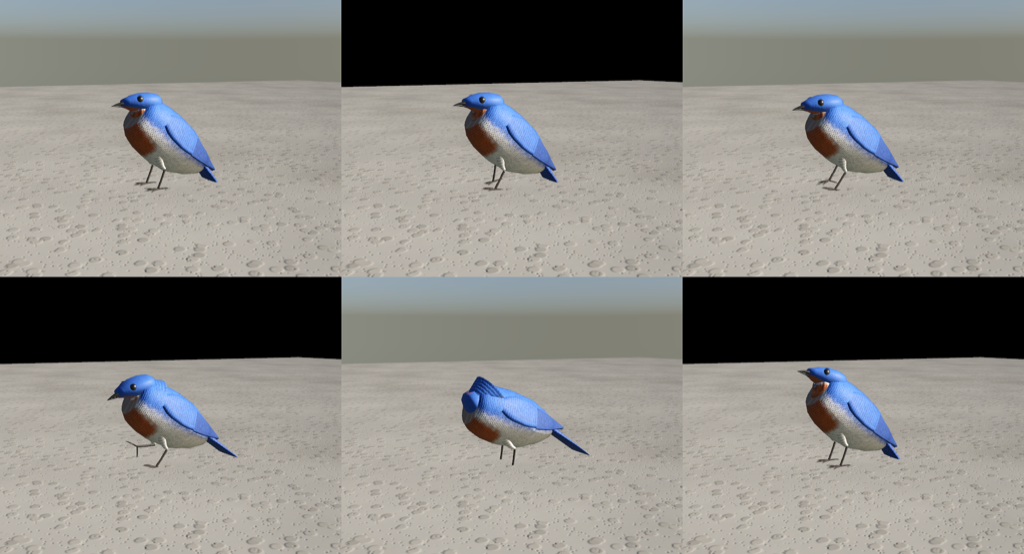
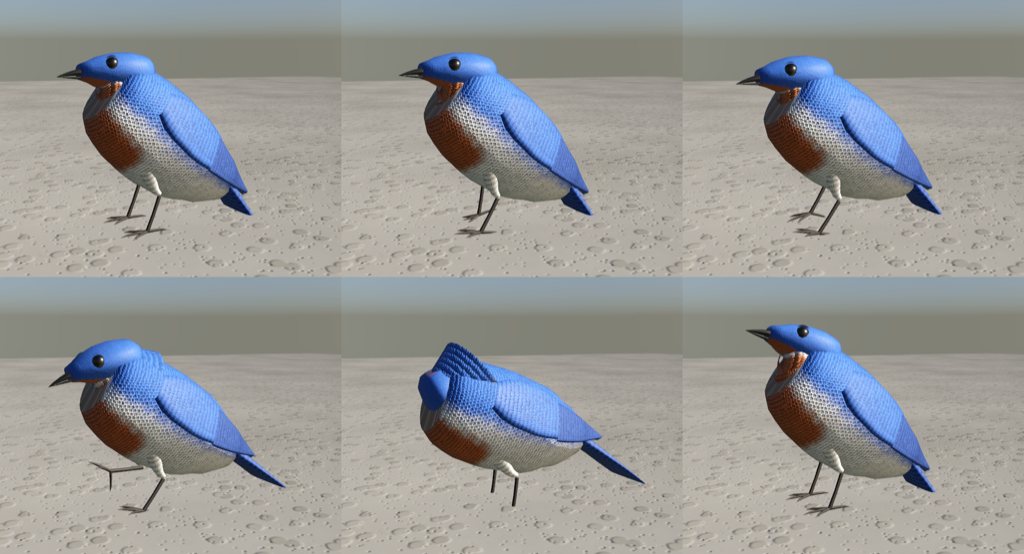
Pets: shell fur (furShell, Skin.withShells), shell tail, iris/cornea eyes, ear hair, close sheets, 51k tri budget

diff --git a/Sources/AnimalCore/Anatomy/GroundRigBuilder.swift b/Sources/AnimalCore/Anatomy/GroundRigBuilder.swift
@@ -229,7 +229,7 @@ public enum GroundRigBuilder {
         // Neck and head.
         let hc = f.headCenter, hl = a.headLength
         let neckEnd = hc + V3(0, -0.1 * a.headHeight, 0.3 * hl)
-        let limbFur = a.darkLimbs ? f.mat(.head) : fur
+        let limbFur = a.darkLimbs ? f.mat(.head) : (small ? f.mat(.limb) : fur)
         // Neck: sections along the spine of the neck with a shoulder blend at the base, a crest above and
         // a brisket or throat swell below.
         let nBase = small ? f.C + f.A * (0.36 * a.bodyLength) + f.U * (0.02 * a.bodyDepth) : f.neckPivot - f.A * (0.1 * a.bodyLength) - f.U * (0.06 * a.bodyDepth)
@@ -333,7 +333,7 @@ public enum GroundRigBuilder {
             if small {
                 // Seat the eye in a socket: sunk into the skull, flattened, ringed by a dark lid rim.
                 let R = a.eyeRadius
-                c -= V3(s.sign * R * 0.55, 0, 0)
+                c -= V3(s.sign * R * 0.6, 0, 0)
                 let face = simd_quatf(angle: -s.sign * .pi / 2, axis: GroundFrame.Z)
                 var rim: [V2] = []
                 for k in 0...6 { let al = radians(58 + 40 * Float(k) / 6); rim.append(V2(R * 1.12 * sin(al), R * 1.12 * cos(al) * 0.92)) }
@@ -358,6 +358,13 @@ public enum GroundRigBuilder {
             let part = s == .left ? GroundJoint.earL.name : GroundJoint.earR.name
             for srf in QuadrupedBody.ear(base: base - dir * 0.004, dir: dir, side: side, normal: normal, len: a.earLength, width: a.earWidth,
                                          outer: f.mat(.ear), inner: f.mat(.pinna)) { rig.add(srf, to: part) }
+            // Fine pale hair fringing the inner ear.
+            for k in 0..<9 {
+                let sb = 0.06 + 0.07 * Float(k), sa = (Float(k % 3) - 1) * 0.35
+                let p0 = base + dir * (a.earLength * sb) + side * (a.earWidth * 0.32 * sa) + normal * 0.0015
+                let L = a.earLength * 0.22
+                rig.add(Prim.tube([p0, p0 + dir * (0.5 * L) + normal * (0.25 * L), p0 + dir * L + normal * (0.35 * L)], radii: [0.0007, 0.0005, 0.0001], sides: 3, seamTile: 0.02, material: f.mat(.whisker)), to: part)
+            }
         }
         for s in Side.allCases where plan == nil && !small {
             let base = earBase(s)
@@ -404,14 +411,14 @@ public enum GroundRigBuilder {
                 }
             }
             let fluffy = small && a.tailLength > 0.6 * a.bodyLength
-            let coreK: Float = fluffy ? 0.5 : 1
+            let coreK: Float = fluffy ? 0.62 : 1
             let pm = lerp(p0, p1, 0.5) + V3(0, curl * tailSeg * 0.07, 0)
             let seg = Loft.along([p0 - (p1 - p0) * 0.1, pm, p1 + (p1 - p0) * 0.06], up: GroundFrame.Y, count: 5, segments: 14, vRange: t0...t1, exponent: 2, material: tailMaterial()) { t in
                 let r = wTail(lerp(t0, t1, t)) * coreK; return V3(r, r * (p.species == .easternGraySquirrel ? 0.8 : 1), r * (p.species == .easternGraySquirrel ? 0.8 : 1))
             }
             let partName = [GroundJoint.tail0, .tail1, .tail2][i].name
             rig.add(seg, to: partName)
-            if fluffy {
+            if fluffy && !small {
                 // Volumetric brush: tapered fur cards fanning out from the tail bone, leaning toward the tip.
                 var rng = SplitMix(seed: 31 + UInt64(i))
                 let ax = simd_normalize(p1 - p0)
@@ -466,7 +473,7 @@ public enum GroundRigBuilder {
                     let r = lerp(radii[0], radii[1], k) * (small ? 1 + 0.12 * sin(.pi * t) : 1); return small ? V3(r * 0.9, r * 1.08, r * 1.08) : V3(r, r, r)
                 }, uv: { u, v in V2(legU + 0.05 * cos(u * 2 * .pi), 0.3 + 0.3 * v) })
             }
-            rig.add(Loft.along([c.hip + (small ? f.U * ((l.isFore ? 0.3 : 0.12) * a.bodyDepth) - V3(c.hip.x * 0.55, 0, 0) : V3(0, 0.004, 0)), c.knee], up: GroundFrame.X, count: small ? 8 : 6, segments: small ? 16 : 12, vRange: 0...0.5, exponent: 2, material: fur, radius: { t in let k = small ? 1 - pow(1 - t, 2) : t; let r = lerp(thighR * (small ? 1.15 : 1), kneeR, k); return V3(r, r, r) }, uv: { u, v in V2(legU + 0.05 * cos(u * 2 * .pi), 0.3 + 0.3 * v) }), to: GroundJoint.leg(l, .hip).name)
+            rig.add(Loft.along([c.hip + (small ? f.U * ((l.isFore ? 0.3 : 0.12) * a.bodyDepth) - V3(c.hip.x * 0.55, 0, 0) : V3(0, 0.004, 0)), c.knee], up: GroundFrame.X, count: small ? 8 : 6, segments: small ? 16 : 12, vRange: 0...0.5, exponent: 2, material: small ? limbFur : fur, radius: { t in let k = small ? 1 - pow(1 - t, 2) : t; let r = lerp(thighR * (small ? 1.15 : 1), kneeR, k); return V3(r, r, r) }, uv: { u, v in V2(legU + 0.05 * cos(u * 2 * .pi), 0.3 + 0.3 * v) }), to: GroundJoint.leg(l, .hip).name)
             rig.add(leg([c.knee, c.ankle], [kneeR, shankEnd], vr: 0.5...1), to: GroundJoint.leg(l, .knee).name)
             rig.add(leg([c.ankle, c.toe], [r * 0.85, r * 0.9], vr: 0.5...1), to: GroundJoint.leg(l, .ankle).name)
             let ankle = GroundJoint.leg(l, .ankle).name

diff --git a/Sources/AnimalCore/Materials/FaunaMaterials.swift b/Sources/AnimalCore/Materials/FaunaMaterials.swift
@@ -33,7 +33,7 @@ public enum FaunaMaterials {
             make(.body, .plumageBody) {
                 $0.colorA = linear(c.back); $0.colorB = linear(c.belly); $0.colorC = linear(c.breast)
                 $0.knobs = V4(c.featherRows * 1.9, c.flankLine, c.breastExtent, c.spotting)
-                $0.tileSize = 0; $0.resolution = 1024; $0.normalStrength = 0.7; $0.roughness = 0.62
+                $0.tileSize = 0; $0.resolution = 1024; $0.normalStrength = 1.3; $0.roughness = 0.66
                 if c.iridescence > 0 { $0.roughness = 0.55; $0.specular = 0.5 }   // structural blue: soft sheen, not lacquer
             },
             p.anatomy.caruncle > 0
@@ -132,7 +132,7 @@ public enum FaunaMaterials {
     // MARK: ground animals
 
     public enum GroundRegion: String, CaseIterable, Sendable {
-        case body, head, tail, ear, nose, eye, claw, whisker, quill, antler, hoof, muzzle, throat, rump, mane, bristle, pinna, lid
+        case body, head, tail, ear, nose, eye, claw, whisker, quill, antler, hoof, muzzle, throat, rump, mane, bristle, pinna, lid, shell, tailShell, limb
     }
 
     public static func key(_ id: String, _ r: GroundRegion) -> MaterialKey { "fauna.\(id).\(r.rawValue)" }
@@ -169,6 +169,24 @@ public enum FaunaMaterials {
                 $0.colorA = linear(c.ear); $0.knobs = V4(0.6, 0.4, 0.6, 0)
                 $0.tileSize = 0.03; $0.resolution = 256; $0.normalStrength = 0.5; $0.roughness = 0.7
             },
+            make(.limb, .furCoat) {
+                // Leg coat: body coat program, finer strands, no shells (thin limbs show shell layering).
+                $0.colorA = linear(c.back); $0.colorB = linear(c.belly); $0.colorC = linear(c.accent)
+                $0.knobs = V4(c.strands * 1.4, c.flankLine, c.pattern * 0.5, c.fuzz)
+                $0.tileSize = 0; $0.resolution = 512; $0.normalStrength = 1.0; $0.roughness = 0.92
+            },
+            make(.shell, .furShell) {
+                // Shell fur over the coat: back/belly split, pale guard-hair tips.
+                $0.colorA = linear(c.back); $0.colorB = linear(c.belly); $0.colorC = linear(c.belly)
+                $0.knobs = V4(c.strands, c.flankLine, 0.55, 0.3)
+                $0.tileSize = 0; $0.resolution = 1024; $0.normalStrength = 0.4; $0.roughness = 0.86; $0.mode = .cutout
+            },
+            make(.tailShell, .furShell) {
+                // Tail brush: coat-coloured strands, many white frosted guard-hair tips.
+                $0.colorA = linear(c.tail); $0.colorB = linear(c.tail); $0.colorC = linear(c.tailTip)
+                $0.knobs = V4(c.strands * 0.8, 2, 0.9, 0.45)
+                $0.tileSize = 0; $0.resolution = 1024; $0.normalStrength = 0.4; $0.roughness = 0.86; $0.mode = .cutout
+            },
             make(.pinna, .plastic) {
                 // Inner ear skin: thin, pink, translucent-looking.
                 $0.colorA = linear(0xE9AFA0); $0.knobs = V4(0.5, 0.35, 0.5, 0)
@@ -176,7 +194,7 @@ public enum FaunaMaterials {
             },
             make(.lid, .plastic) {
                 // Dark rim skin around the eye.
-                $0.colorA = linear(0x1E1714); $0.knobs = V4(0.3, 0.3, 0.3, 0)
+                $0.colorA = linear(0x3A2326); $0.knobs = V4(0.3, 0.3, 0.3, 0)
                 $0.tileSize = 0.01; $0.resolution = 128; $0.normalStrength = 0.2; $0.roughness = 0.5
             },
             make(.nose, .plastic) {
@@ -184,8 +202,9 @@ public enum FaunaMaterials {
                 $0.tileSize = 0.02; $0.resolution = 128; $0.normalStrength = 0.3; $0.roughness = p.anatomy.snoutDisc ? 0.6 : 0.35; $0.clearcoat = p.anatomy.snoutDisc ? 0.04 : 0.3
             },
             make(.eye, .plastic) {
-                $0.colorA = linear(c.eye); $0.knobs = V4(0.2, 0.2, 0.2, 0)
-                $0.tileSize = 0.02; $0.resolution = 128; $0.normalStrength = 0; $0.roughness = 0.04; $0.clearcoat = 1; $0.specular = 1
+                // Dark brown iris under a clear cornea: tiny roughness, full clearcoat for the wet highlight.
+                $0.colorA = linear(0x2A170C); $0.knobs = V4(0.25, 0.2, 0.25, 0)
+                $0.tileSize = 0.004; $0.resolution = 128; $0.normalStrength = 0; $0.roughness = 0.02; $0.clearcoat = 1; $0.specular = 1
             },
             make(.claw, .plastic) {
                 $0.colorA = linear(c.claw); $0.knobs = V4(0.4, 0.4, 0.5, 0)

diff --git a/Sources/AnimalKit/GroundPuppet.swift b/Sources/AnimalKit/GroundPuppet.swift
@@ -102,6 +102,8 @@ public final class GroundPuppet {
 
 @MainActor
 public enum GroundFactory {
+    /// Fur shells per coat surface on skinned pets (0 disables). LOD tiers can lower it before templates build.
+    public nonisolated(unsafe) static var shellCount = 8
     private struct Key: Hashable { var species: GroundSpecies; var variant: GroundVariant }
     private static var templates: [Key: GroundTemplate] = [:]
     private static var building: [Key: Task<GroundTemplate, Error>] = [:]
@@ -117,9 +119,18 @@ public enum GroundFactory {
             let entity: Entity
             if built.skinned {
                 // One continuous skinned mesh; coat surfaces blend across joints.
-                let coat = [".body", ".head", ".tail", ".muzzle", ".throat", ".rump"]
+                let coat = [".body", ".head", ".tail", ".muzzle", ".throat", ".rump", ".limb"]
                 let isCoat: @Sendable (MaterialKey) -> Bool = { k in coat.contains { k.hasSuffix($0) } }
-                let skin = await Task.detached(priority: .userInitiated) { built.rig.skin(blend: isCoat, include: isCoat) }.value
+                let id = s.rawValue, tw = profile.anatomy.tailWidth
+                let skin = await Task.detached(priority: .userInitiated) {
+                    built.rig.skin(blend: isCoat, include: isCoat).withShells(count: GroundFactory.shellCount) { k in
+                        if k.hasSuffix(".tail") { return ("fauna.\(id).tailShell", tw * 0.32) }
+                        if k.hasSuffix(".limb") { return ("fauna.\(id).shell", 0.0018) }
+                        if k.hasSuffix(".body") { return ("fauna.\(id).shell", 0.0045) }
+                        if k.hasSuffix(".head") || k.hasSuffix(".muzzle") { return ("fauna.\(id).shell", 0.0035) }
+                        return nil
+                    }
+                }.value
                 // Ears, eyes, nose, claws, whiskers stay rigid on joint entities (full uv1 AO and wind channels).
                 entity = try await built.rig.removing(isCoat).entityAsync(name: s.rawValue, state: "stand", interactive: false)
                 entity.removeRestProxy()

diff --git a/Sources/RealKit/SkinUpload.swift b/Sources/RealKit/SkinUpload.swift
@@ -26,6 +26,7 @@ public extension Skin {
             p.textureCoordinates = MeshBuffers.TextureCoordinates(s.uvs)
             p.bitangents = MeshBuffers.Normals((0..<s.vertexCount).map { k in let t = s.tangents[k]; return simd_cross(s.normals[k], SIMD3(t.x, t.y, t.z)) * t.w })
             p.triangleIndices = MeshBuffer(s.indices)
+            _ = 0
             p.skeletonID = "skel"
             // uv1 = (wind weight, baked AO) as in PackedMesh; ShaderGraph reads it as texcoord 1.
             let uv1 = (0..<s.vertexCount).map { SIMD2(s.extra[$0].x, s.occlusion[$0]) }
@@ -42,7 +43,21 @@ public extension Skin {
         contents.instances = MeshInstanceCollection([MeshResource.Instance(id: "i", model: "m")])
         let mesh = try await MeshResource(from: contents)
         var mats: [any RealityKit.Material] = []
-        for k in keys { mats.append(await cache.skinnedMaterialAsync(k)) }
+        for k in keys {
+            guard let r = k.range(of: "#shell") else { mats.append(await cache.skinnedMaterialAsync(k)); continue }
+            // Shell i of n: cutout level rises toward the tips, roots darker (self-shadowed under-coat).
+            let parts = k[r.upperBound...].split(separator: "/")
+            let i = Float(Int(parts[0]) ?? 0), n = Float(Int(parts.last ?? "1") ?? 1)
+            let lvl = (i + 1) / (n + 1)
+            var m = await cache.skinnedMaterialAsync(String(k[..<r.lowerBound]))
+            if var g = m as? ShaderGraphMaterial {
+                try? g.setParameter(name: "OpacityThreshold", value: .float(0.08 + 0.85 * lvl))
+                let sh = CGFloat(0.55 + 0.5 * lvl)
+                try? g.setParameter(name: "Tint", value: .color(CGColor(srgbRed: sh, green: sh, blue: sh, alpha: 1)))
+                m = g
+            }
+            mats.append(m)
+        }
         let e = ModelEntity(mesh: mesh, materials: mats)
         e.name = name
         return e

diff --git a/Sources/RealMaterials/Shaders/FaunaShaders.swift b/Sources/RealMaterials/Shaders/FaunaShaders.swift
@@ -370,6 +370,36 @@ S furCoat(float2 uv, constant RFParams &P) {
     return s;
 }
 
+// Shell fur strands for cutout shells. Alpha = strand height 0..1 (length x clump map); a shell at level
+// k keeps texels with alpha > k, so strands thin toward their tips across the stack. Colour: back/belly
+// split at the flank line (P.f.y), guard hairs (share P.f.w) tipped with colorC, P.f.z frost strength.
+S furShell(float2 uv, constant RFParams &P) {
+    S s = defaults(); s.rough = 0.86;
+    float d = min(uv.x, 1.0 - uv.x); float t = d * 2.0;
+    float nx = max(P.f.x, 24.0) * 3.0;
+    float2 g = float2(t * nx, uv.y * nx * 0.7);
+    float2 c0 = floor(g);
+    float best = 9.0; float h1 = 0.0, h2 = 0.0;
+    for (int j = -1; j <= 1; j++) for (int i = -1; i <= 1; i++) {
+        float2 c = c0 + float2(i, j);
+        uint hs = pcg(uint(int(c.x) + 4096) * 7919u + uint(int(c.y) + 4096) * 104729u + P.seed);
+        float2 o = float2(float(hs & 0xffffu), float((hs >> 16) & 0xffffu)) / 65536.0;
+        float r = length(g - (c + 0.15 + 0.7 * o));
+        if (r < best) { best = r; h1 = float(pcg(hs) & 0xffffu) / 65536.0; h2 = o.x; }
+    }
+    float clump = fbm(uv, int2(14, 20), 2, P.seed + 17u);
+    float len = saturate(0.45 + 0.4 * h1 + 0.35 * clump);
+    float strand = 1.0 - smoothstep(0.22, 0.42, best);
+    s.alpha = strand * len;
+    float zn = 0.06 * fbm(float2(t, uv.y), int2(4, 6), 3, P.seed + 3u);
+    bool under = (t + zn) > P.f.y;
+    float3 base = (under ? P.colorB.rgb : P.colorA.rgb) * (0.86 + 0.28 * h2);
+    bool guard = h1 > 1.0 - P.f.w;
+    s.albedo = guard ? mix(base, P.colorC.rgb, P.f.z) : base;
+    s.height = s.alpha; s.ao = 1.0;
+    return s;
+}
+
 S quillCoat(float2 uv, constant RFParams &P) {
     S s = defaults(); s.rough = 0.6;
     int N = max(8, int(P.f.x));

diff --git a/Sources/RealCore/Skin.swift b/Sources/RealCore/Skin.swift
@@ -19,6 +19,31 @@ public struct Skin: Sendable {
     public var triangleCount: Int { surfaces.reduce(0) { $0 + $1.triangleCount } }
 }
 
+public extension Skin {
+    /// Shell fur: `count` copies of each surface picked by `shell` (which returns the shell material key and
+    /// fur length in meters), pushed out along the normal and skinned with the source weights. Shell i
+    /// gets material `<key>#shell<i>/<count>` so the uploader can set its cutout level and root shading.
+    func withShells(count: Int, _ shell: (MaterialKey) -> (MaterialKey, Float)?) -> Skin {
+        guard count > 0 else { return self }
+        var result = self
+        for (si, s) in surfaces.enumerated() {
+            guard let (key, len) = shell(s.material) else { continue }
+            // Lofts may wind inward: push shells away from the surface centroid by majority vote.
+            let cen = s.positions.reduce(V3.zero, +) / Float(max(1, s.vertexCount))
+            let out = zip(s.positions, s.normals).reduce(0) { $0 + (simd_dot($1.1, $1.0 - cen) >= 0 ? 1 : -1) }
+            let sign: Float = out >= 0 ? 1 : -1
+            for i in 0..<count {
+                var c = s
+                let h = len * Float(i + 1) / Float(count)
+                c.positions = zip(s.positions, s.normals).map { $0 + $1 * (h * sign) }
+                c.material = "\(key)#shell\(i)/\(count)"
+                result.surfaces.append(c); result.influences.append(influences[si])
+            }
+        }
+        return result
+    }
+}
+
 public extension Rig {
     /// Copy without the surfaces whose material matches `drop` (all LODs and options).
     func removing(_ drop: (MaterialKey) -> Bool) -> Rig {

diff --git a/Sources/animalpreview/main.swift b/Sources/animalpreview/main.swift
@@ -42,6 +42,7 @@ func run() async throws {
     let w = Int(opt("--w") ?? "640") ?? 640, h = Int(opt("--h") ?? "520") ?? 520
     let globalPose = opt("--pose") ?? "perched"
     let tight = args.contains("--tight")
+    let close = opt("--dist") == "close"
     let azArg = Float(opt("--az") ?? "-62") ?? -62
     let names = args.filter { !$0.hasPrefix("-") && ![out, opt("--pose") ?? "", opt("--w") ?? "", opt("--h") ?? ""].contains($0) }
     if args.contains("--dump") {
@@ -143,7 +144,7 @@ func run() async throws {
         let c = SIMD3<Float>(0, 0.0, 0)
         let d = max(0.28, length * (tight ? 1.7 : 2.6))
         if sheet {
-            let dist = max(0.28, length * 2.7)
+            let dist = close ? max(0.24, length * 1.5) : max(0.28, length * 2.7)
             let a = azArg * Float.pi / 180, e = 9 * Float.pi / 180
             let eye = c + SIMD3(sin(a) * cos(e), sin(e), -cos(a) * cos(e)) * dist
             preview.look(from: eye, at: c, fov: 32)

diff --git a/Tests/AnimalKitTests/SkinnedTests.swift b/Tests/AnimalKitTests/SkinnedTests.swift
@@ -31,5 +31,10 @@ final class SkinnedTests: XCTestCase {
             }
         }
         XCTAssertGreaterThan(parts, 0)
+        // Sim budget: skin with fur shells under 60k triangles.
+        var tris = 0
+        for mdl in model.mesh.contents.models { for p in mdl.parts { tris += (p.triangleIndices?.count ?? 0) / 3 } }
+        print("skinned squirrel tris", tris, "shells", GroundFactory.shellCount)
+        XCTAssertLessThan(tris, 60000)
     }
 }

diff --git a/Sources/RealMaterials/MaterialSpec.swift b/Sources/RealMaterials/MaterialSpec.swift
@@ -29,7 +29,7 @@ public enum TextureProgram: Int32, Sendable, CaseIterable {
     case foodTissue
     case chitin, insectFur, compoundEye, insectWing, insectVeins, caterpillarBands
     case petal
-    case plumageBody, plumageHead, plumageFeather, furCoat, quillCoat
+    case plumageBody, plumageHead, plumageFeather, furCoat, quillCoat, furShell
     case carbonWeave, foilCrinkle
     case barkSycamore
     case fishSkin, fishFin, fishEye

diff --git a/Sources/AnimalCore/Species/GroundSpecies.swift b/Sources/AnimalCore/Species/GroundSpecies.swift
@@ -211,6 +211,7 @@ extension GroundProfile {
                                  likes: [.tree: 1, .feeder: 0.9, .openGround: 0.5, .seedPlants: 0.4, .perch: 0.5], minHabitat: 0.15, alertRate: 0.35))
         // Round cranium, short blunt muzzle.
         p.anatomy.headShape = [0.84, 1.0, 1.0, 0.92, 0.78, 0.6, 0.44, 0.3]
+        p.anatomy.tailWidth = 0.09
         return p
     }()
 

diff --git a/notes/visual-log.md b/notes/visual-log.md
@@ -107,3 +107,20 @@ unguarded; a NaN height poisons the derived normal map and mips, which renders b
 Fix: furCoat guards height/AO/soft; `rf_material` kernel replaces non-finite albedo, height, rough,
 AO, metal, alpha for every program. After: squirrel coat lit in 03-perch; tail first, then body.
 Open: squirrel tail reads near white in Kith light.
+
+## Photoreal pass 6: shell fur (close sheets, `--dist close`)
+
+Added `furShell` program (cutout; alpha = strand height from jittered strand cells x length x clump
+fbm; back/belly split; guard hairs tipped with colorC), regions `shell`, `tailShell`, `limb`;
+`Skin.withShells` (copies along the normal, same weights, outward by centroid vote); uploader sets
+per-shell OpacityThreshold 0.08..0.93 and root-dark Tint 0.55..1.05. Squirrel tail: cards off for
+skinned pets, core 0.62 w, tail shells 0.32 tail width, tail width 0.09 m.
+Iter 1. Issues: camera far (flag read after args cleared), head fur thin, fennec eyes on top of skull.
+Fixes: eye inset 0.8 R, head shells 3.5 mm, dark brown iris with clearcoat cornea, pink-black lid rim,
+fennec inner-ear hair, bluebird body normal 1.3 roughness 0.66.
+Iter 2. Issues: close flag ignored, thin tail. Fixes: `--dist close` read before arg reset; tail 0.09 m.
+Iter 3. Issues: legs show shell layering, eyes hidden. Fixes: legs on `limb` coat with 1.8 mm shells,
+eye inset 0.6 R.
+Iter 4. Issue: head shells hidden (loft wound inward). Fix: centroid vote flips shell direction.
+Budget: 12 shells = 74k tris; 8 shells = 51.2k (test asserts < 60k). `GroundFactory.shellCount`.
+Open: squirrel head still reads smooth; bluebird scale-like plumage (no barbed cards yet); whiskers opaque.
